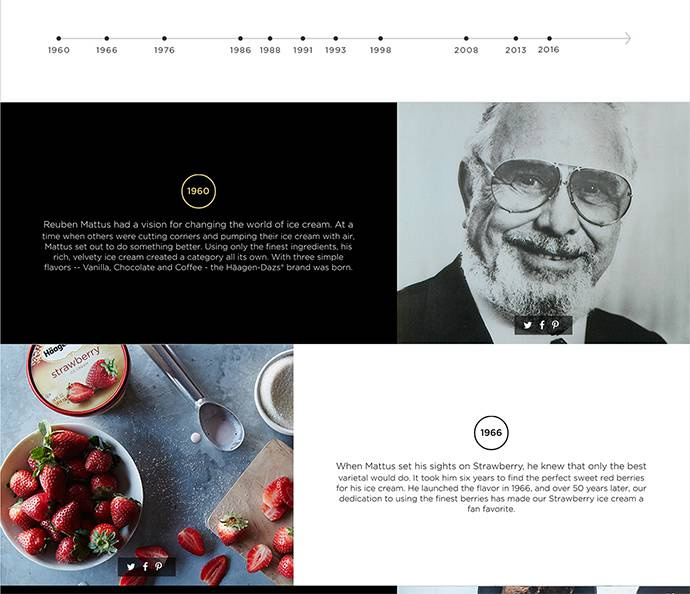
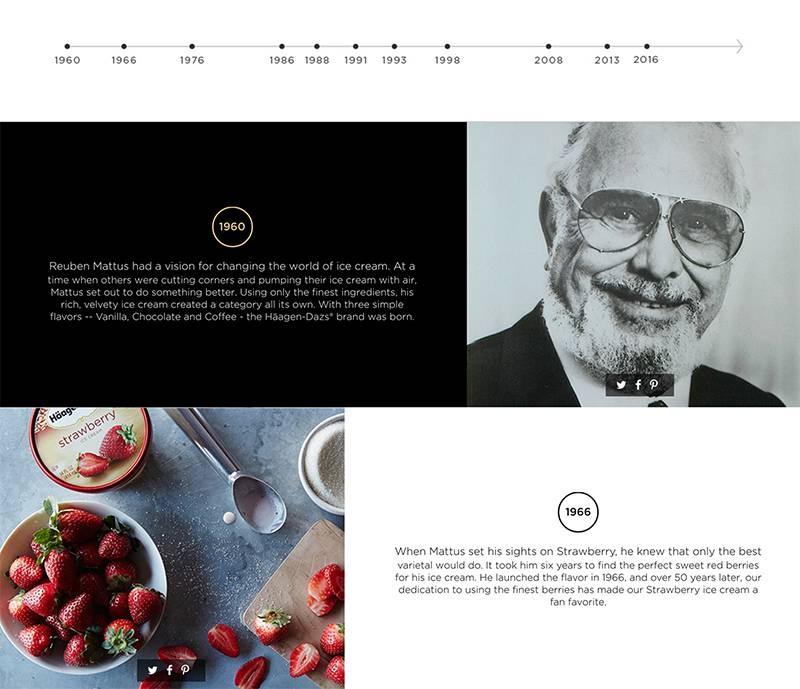
Detail view carousel dev complete

diff --git a/site/builds/development/css/app.css b/site/builds/development/css/app.css
@@ -4237,19 +4237,22 @@ p {
 /* big buttons, no circle */
 .flickity-prev-next-button {
   opacity: 0.3;
-  background: transparent; }
+  background: transparent;
+  /*@include breakpoint(medium only) {
+        width: 4em;
+        height: 4em;
+    }
+    @include breakpoint(small down) {
+        width: 3em;
+        height: 3em;
+    }*/ }
   @media screen and (min-width: 64em) {
     .flickity-prev-next-button {
       width: 5em;
       height: 5em; } }
-  @media screen and (min-width: 43.75em) and (max-width: 63.9375em) {
+  @media screen and (max-width: 63.9375em) {
     .flickity-prev-next-button {
-      width: 4em;
-      height: 4em; } }
-  @media screen and (max-width: 43.6875em) {
-    .flickity-prev-next-button {
-      width: 3em;
-      height: 3em; } }
+      display: none; } }
 
 .flickity-prev-next-button:hover {
   opacity: 0.8;
@@ -4266,6 +4269,15 @@ p {
 .flickity-prev-next-button:disabled {
   display: none; }
 
+/* position outside */
+@media screen and (min-width: 64em) {
+  .overlay-carousel .flickity-prev-next-button.previous {
+    left: -60px; }
+  .overlay-carousel .flickity-prev-next-button.next {
+    right: -60px; }
+  .overlay-carousel .flickity-prev-next-button .arrow {
+    fill: #484848; } }
+
 /* position dots in carousel */
 .main-carousel .flickity-page-dots {
   bottom: 10px; }
@@ -4277,17 +4289,17 @@ p {
   z-index: 100; }
   @media screen and (min-width: 64em) {
     .overlay-carousel .flickity-page-dots {
-      bottom: -2em; }
+      bottom: -25px; }
       .overlay-carousel .flickity-page-dots .dot {
         display: none; }
       .overlay-carousel .flickity-page-dots .dot:nth-child(2n+1) {
         display: inline-block; } }
   @media screen and (min-width: 43.75em) and (max-width: 63.9375em) {
     .overlay-carousel .flickity-page-dots {
-      bottom: -2em; } }
+      bottom: -25px; } }
   @media screen and (max-width: 43.6875em) {
     .overlay-carousel .flickity-page-dots {
-      bottom: -1.5em; } }
+      bottom: -25px; } }
 
 /* white circles */
 .flickity-page-dots .dot {
@@ -4351,24 +4363,27 @@ p {
     height: 100%; }
 
 .overlay-carousel .carousel-cell {
+  top: -3px;
   height: auto; }
   @media screen and (min-width: 64em) {
     .overlay-carousel .carousel-cell {
-      width: 50%; } }
-  @media screen and (max-width: 63.9375em) {
+      width: 50%;
+      padding-right: 10px;
+      padding-left: 10px; } }
+  @media screen and (min-width: 43.75em) and (max-width: 63.9375em) {
     .overlay-carousel .carousel-cell {
-      width: 100%; } }
+      width: 100%;
+      padding-right: 10px;
+      padding-left: 10px; } }
+  @media screen and (max-width: 43.6875em) {
+    .overlay-carousel .carousel-cell {
+      width: 100%;
+      padding-right: 10px;
+      padding-left: 10px; } }
   .overlay-carousel .carousel-cell img {
     width: 100%;
-    height: auto; }
-
-@media screen and (min-width: 64em) {
-  .overlay-carousel .carousel-cell:nth-child(odd) {
-    padding-right: 10px; } }
-
-@media screen and (min-width: 64em) {
-  .overlay-carousel .carousel-cell:nth-child(even) {
-    padding-left: 10px; } }
+    height: auto;
+    box-shadow: 2px 2px 2px #ccc; }
 
 @media screen and (min-width: 64em) {
   #about #about_copy {

diff --git a/site/scss/components/_carousel.scss b/site/scss/components/_carousel.scss
@@ -11,14 +11,18 @@
         width: 5em;
         height: 5em;
     }
-    @include breakpoint(medium only) {
+    
+    @include breakpoint(medium down) {
+        display: none;
+    }
+    /*@include breakpoint(medium only) {
         width: 4em;
         height: 4em;
     }
     @include breakpoint(small down) {
         width: 3em;
         height: 3em;
-    }
+    }*/
 }
 
 .flickity-prev-next-button:hover {
@@ -44,6 +48,19 @@
     display: none;
 }
 
+/* position outside */
+@include breakpoint(large up) {
+    .overlay-carousel .flickity-prev-next-button.previous {
+      left: -60px;
+    }
+    .overlay-carousel .flickity-prev-next-button.next {
+      right: -60px;
+    }
+    .overlay-carousel .flickity-prev-next-button .arrow {
+        fill: $dark-gray;
+    }
+}
+
 
 /* position dots in carousel */
 
@@ -60,7 +77,7 @@
     
     
     @include breakpoint(large up) {
-        bottom: -2em;
+        bottom: -25px;
         
        .dot {
             display:none;
@@ -70,10 +87,10 @@
         }   
     }
     @include breakpoint(medium only) {
-        bottom: -2em;
+        bottom: -25px;
     }
     @include breakpoint(small down) {
-        bottom: -1.5em;
+        bottom: -25px;
     }
 }
 
@@ -164,19 +181,29 @@
 }
 
 .overlay-carousel{
-    
-   // background-color: black;
-    
+
     .carousel-cell {
+        
+        top:-3px;
         
         @include breakpoint(large up) {
             width:50%;
-            //padding-right: 20px;
+            padding-right: 10px;
+            padding-left: 10px;
         }
         
-        @include breakpoint(medium down) {
+        @include breakpoint(medium only) {
             width:100%;
             //margin-right: 10px;
+            padding-right: 10px;
+            padding-left: 10px;
+        }
+        
+        @include breakpoint(small down) {
+            width:100%;
+            //margin-right: 10px;
+            padding-right: 10px;
+            padding-left: 10px;
         }
       
         
@@ -186,21 +213,10 @@
     img {
         width:100%; 
         height:auto;
+      
+        box-shadow: 2px 2px 2px #ccc;
     }
 }
-    
-    .carousel-cell:nth-child(odd) {
-        @include breakpoint(large up) {
-            padding-right: 10px;
-        }
-        
-    }
-    
-    .carousel-cell:nth-child(even) {
-        @include breakpoint(large up) {
-            padding-left: 10px;
-        }
-        
-    }
+
     
 }

diff --git a/site/builds/development/js/script.js b/site/builds/development/js/script.js
@@ -739,15 +739,15 @@ function changeCarouselImage(image) {
         $retina = true;
     }
 
-   /* if ($retina) {
+    if ($retina) {
 
         switch ($size) {
         case 'small':
-            $image = 'images/slides/' + image + '_SM_x2.jpg';
+            $image = 'images/slides/' + image + '_LG_x2.jpg';
             viewState = 'sm_ret';
             break;
         case 'medium':
-            $image = 'images/slides/' + image + '_MD_x2.jpg';
+            $image = 'images/slides/' + image + '_LG_x2.jpg';
             viewState = 'md_ret';
             break;
         case 'large':
@@ -758,7 +758,7 @@ function changeCarouselImage(image) {
             break;
         }
 
-    } else {*/
+    } else {
 
         switch ($size) {
         case 'small':
@@ -776,14 +776,10 @@ function changeCarouselImage(image) {
             viewState = 'lg';
             break;
         }
-   // }
+    }
 
     var $cellElems = $("<div class='carousel-cell'><img src='" + $image + "' /></div>");
     $('.overlay-carousel').flickity( 'append', $cellElems );
-    
-   // resizeCarousel();
-    //console.log('reloadCells')
-   // $('.overlay-carousel').flickity('reloadCells');
 
 };
 
@@ -880,27 +876,13 @@ function changeCarouselImage(image) {
                 
                     isFlickity = true;
 
-              /* if (Foundation.MediaQuery.atLeast('large')) {
-                    
-
-                    
-                    changeCarouselImage(slideImage0);
-                    changeCarouselImage(slideImage1);
-                    changeCarouselImage(slideImage2);
-                
-                    
-                }else{*/
-
                     changeCarouselImage(slideImage0);
                     changeCarouselImage(slideImage1);
                     changeCarouselImage(slideImage2);
                     changeCarouselImage(slideImage3);
                     changeCarouselImage(slideImage4);
                     changeCarouselImage(slideImage5);
-                    
-                    
-               // }
-                
+
                 setTimeout(resizeCarousel, 50);
                 
             }else{

diff --git a/site/scripts/app.js b/site/scripts/app.js
@@ -26,15 +26,15 @@ function changeCarouselImage(image) {
         $retina = true;
     }
 
-   /* if ($retina) {
+    if ($retina) {
 
         switch ($size) {
         case 'small':
-            $image = 'images/slides/' + image + '_SM_x2.jpg';
+            $image = 'images/slides/' + image + '_LG_x2.jpg';
             viewState = 'sm_ret';
             break;
         case 'medium':
-            $image = 'images/slides/' + image + '_MD_x2.jpg';
+            $image = 'images/slides/' + image + '_LG_x2.jpg';
             viewState = 'md_ret';
             break;
         case 'large':
@@ -45,7 +45,7 @@ function changeCarouselImage(image) {
             break;
         }
 
-    } else {*/
+    } else {
 
         switch ($size) {
         case 'small':
@@ -63,14 +63,10 @@ function changeCarouselImage(image) {
             viewState = 'lg';
             break;
         }
-   // }
+    }
 
     var $cellElems = $("<div class='carousel-cell'><img src='" + $image + "' /></div>");
     $('.overlay-carousel').flickity( 'append', $cellElems );
-    
-   // resizeCarousel();
-    //console.log('reloadCells')
-   // $('.overlay-carousel').flickity('reloadCells');
 
 };
 
@@ -167,27 +163,13 @@ function changeCarouselImage(image) {
                 
                     isFlickity = true;
 
-              /* if (Foundation.MediaQuery.atLeast('large')) {
-                    
-
-                    
-                    changeCarouselImage(slideImage0);
-                    changeCarouselImage(slideImage1);
-                    changeCarouselImage(slideImage2);
-                
-                    
-                }else{*/
-
                     changeCarouselImage(slideImage0);
                     changeCarouselImage(slideImage1);
                     changeCarouselImage(slideImage2);
                     changeCarouselImage(slideImage3);
                     changeCarouselImage(slideImage4);
                     changeCarouselImage(slideImage5);
-                    
-                    
-               // }
-                
+
                 setTimeout(resizeCarousel, 50);
                 
             }else{
